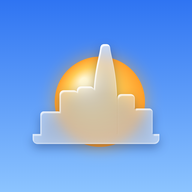
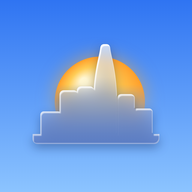
아이콘: 해가 스카이라인 아래로 삐져나오지 않게 아래로 갈수록 사라지게, 유리 하부 어둡게
Claude-Session: https://claude.ai/code/session_013vYkAwcZjb4s3cxt5sEN9t

Changed region(s): [[0.1562, 0.4375, 0.8438, 0.8125]]

diff --git a/sw.js b/sw.js
@@ -1,5 +1,5 @@
 /* 홈 화면 앱: network first (always the newest build when online), cached copy when offline */
-const C='pixel-city-v13',A=['./','./index.html','./manifest.webmanifest','./icons/icon-192.png','./icons/icon-512.png'];
+const C='pixel-city-v14',A=['./','./index.html','./manifest.webmanifest','./icons/icon-192.png','./icons/icon-512.png'];
 self.addEventListener('install',e=>{self.skipWaiting();e.waitUntil(caches.open(C).then(c=>c.addAll(A)));});
 self.addEventListener('activate',e=>{e.waitUntil(caches.keys().then(k=>Promise.all(k.filter(x=>x!==C).map(x=>caches.delete(x)))).then(()=>self.clients.claim()));});
 self.addEventListener('fetch',e=>{const r=e.request;if(r.method!=='GET'||new URL(r.url).origin!==location.origin)return;
